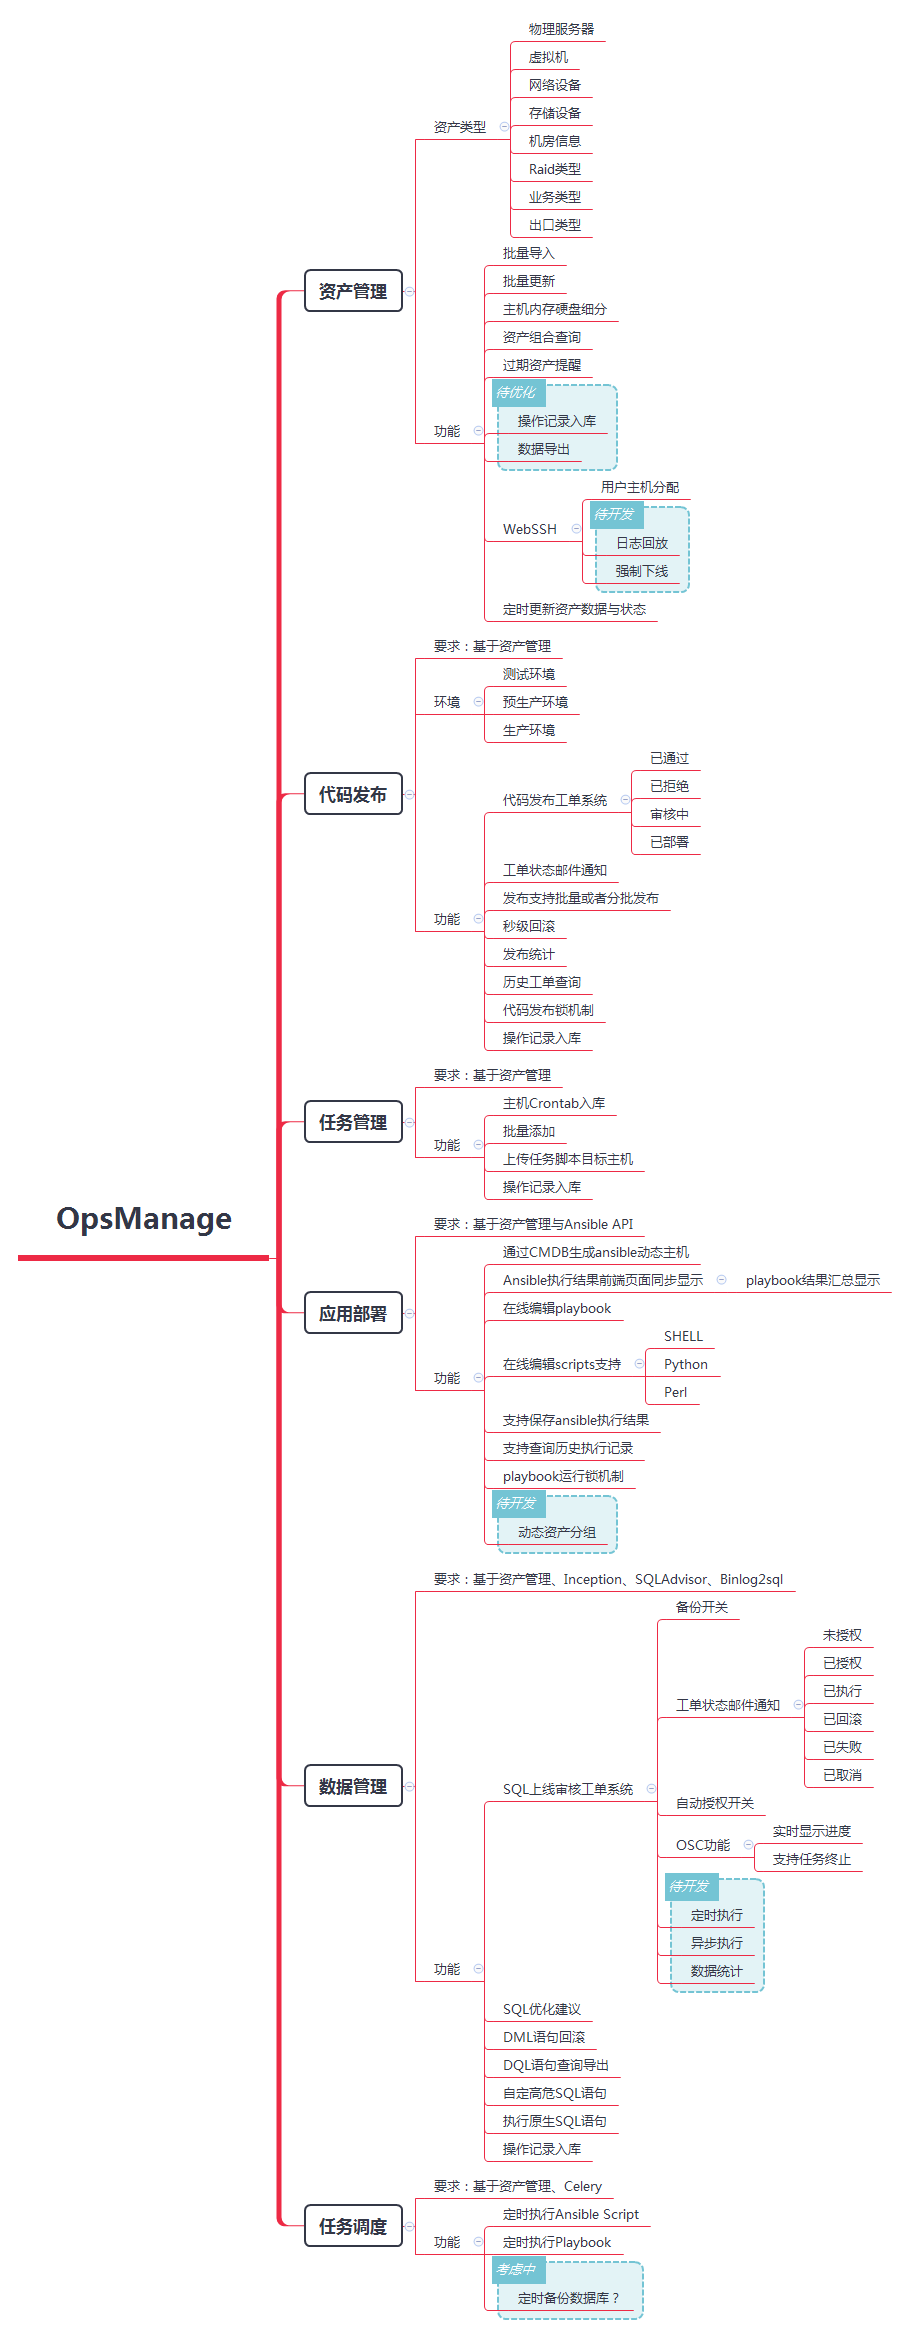
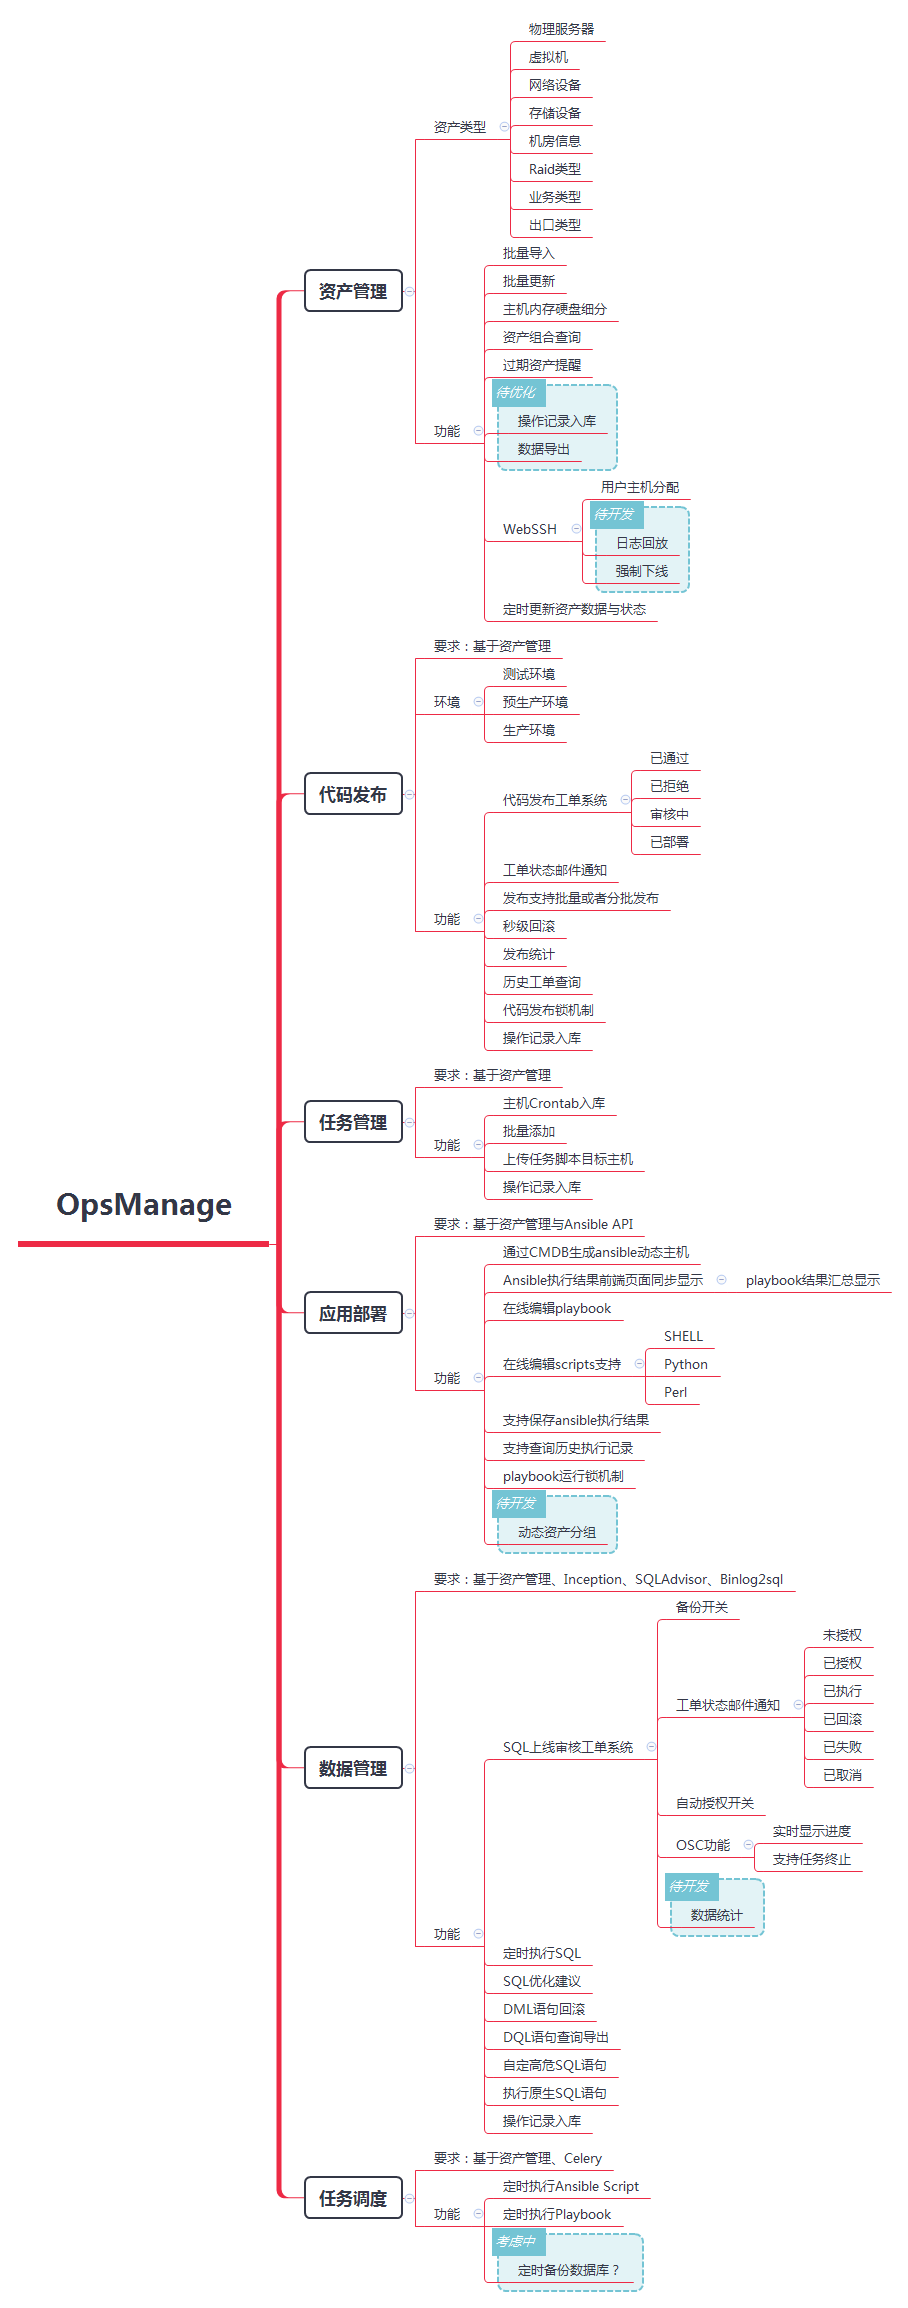
增加定时执行SQL

diff --git a/OpsManage/templates/task/task_model.html b/OpsManage/templates/task/task_model.html
@@ -27,7 +27,7 @@
 							</button>
 						</div>
 						<div>
-							<table class="table table-hover">
+							<table width="100%" class="table table-striped table-bordered table-hover dataTable no-footer" id="crontabList">
 								<thead>
 									<tr>
 										<th class="center">序号</th>
@@ -87,7 +87,7 @@
 							</button>
 						</div>
 						<div>
-							<table class="table table-hover">
+							<table width="100%" class="table table-striped table-bordered table-hover dataTable no-footer" id="intervalList">
 								<thead>
 									<tr>
 										<th class="center">序号</th>
@@ -334,9 +334,9 @@
 										<label class="col-sm-3 control-label no-padding-right" for="form-field-4"><strong>过期时间</strong></label>							
 										<div class="col-sm-5">
 											{% if ds.expires %}
-												<input class="form-control" type="text"   value="{{ds.expires}}" placeholder="2017-01-10 00:00:01" name="expires" />		
+												<input class="form-control form_datetime" data-date-format="yyyy-mm-dd hh:ii" type="text" type="text"   value="{{ds.expires|date:"Y/m/d H:i:s  "}}" placeholder="2017-01-10 00:00:01" name="expires" />		
 											{% else %}
-												<input class="form-control" type="text"   value="" placeholder="2017-01-10 00:00:01" name="expires" />
+												<input class="form-control form_datetime" data-date-format="yyyy-mm-dd hh:ii" type="text" type="text"   value="" placeholder="2017-01-10 00:00:01" name="expires" />
 											{% endif %}																			
 										</div>																				
 										
@@ -477,7 +477,7 @@
 						
 
 									<div class="col-sm-5">
-										<input class="form-control" type="text"   value="" placeholder="2017-01-10 00:00:01" name="expires" />																				
+										<input  class="form-control form_datetime" data-date-format="yyyy-mm-dd hh:ii" type="text"   value="" placeholder="2017-01-10 00:00:01" name="expires" />																				
 									</div>																				
 									
 							</div>	
@@ -651,9 +651,16 @@
 
 
 <script type="text/javascript">
+	$(".form_datetime").datetimepicker({format: 'yyyy-mm-dd hh:ii:ss'});
 	$(document).ready(function() {
 	    $('#taskTableList').DataTable();
 	} );  
+	$(document).ready(function() {
+	    $('#crontabList').DataTable();
+	} ); 
+	$(document).ready(function() {
+	    $('#intervalList').DataTable();
+	} ); 	
     $(function () { 
     	$("[data-toggle='popover']").popover();
     });	

diff --git a/OpsManage/tasks/sched.py b/OpsManage/tasks/sched.py
@@ -1,8 +1,9 @@
 #!/usr/bin/env python  
 # _#_ coding:utf-8 _*_ 
+import MySQLdb
 from celery import task
 from OpsManage.utils import base
-from OpsManage.models import Assets,Email_Config,Server_Assets
+from OpsManage.models import Assets,Email_Config,Server_Assets,DataBase_Server_Config
 from django.contrib.auth.models import User
 from OpsManage.utils.ansible_api_v2 import ANSRunner
 
@@ -89,3 +90,27 @@ def updateAssets():
                     sList.append(server_assets.ip)
                 except Exception, ex:
                     print ex 
+                    
+                    
+@task 
+def orderSql(**kw):
+    if kw.has_key('sql') and kw.has_key('dbId'):
+        try:
+            db = DataBase_Server_Config.objects.get(id=kw.get('dbId'))
+        except Exception, ex:
+            return ex
+        try:
+            conn = MySQLdb.connect(host=db.db_host,user=db.db_user,passwd=db.db_passwd,db=db.db_name,port=int(db.db_port))
+            cur = conn.cursor()
+            ret = cur.execute(kw.get('sql'))
+            conn.commit()
+            cur.close()
+            conn.close()            
+            return {"status":'success','data':ret}
+        except MySQLdb.Error,e:
+            conn.rollback()
+            cur.close()
+            conn.close() 
+            return {"status":'error',"errinfo":"Mysql Error %d: %s" % (e.args[0], e.args[1])}      
+    else:
+        return "参数不对"    

diff --git a/OpsManage/views/task.py b/OpsManage/views/task.py
@@ -112,7 +112,7 @@ def task_view(request):
             workList = WorkerState.objects.all()
             regTaskList = []
             for task in  list(keys(cTasks)):
-                if task.startswith('OpsManage.tasks.ansible') or task.startswith('OpsManage.tasks.assets.sched'):
+                if task.startswith('OpsManage.tasks.ansible') or task.startswith('OpsManage.tasks.sched'):
                     regTaskList.append(task)              
         except Exception, ex:
             print ex

diff --git a/OpsManage/settings.py b/OpsManage/settings.py
@@ -177,11 +177,11 @@ LANGUAGE_CODE = 'en-us'
 
 TIME_ZONE = 'Asia/Shanghai'
 
-USE_I18N = True
+# USE_I18N = True
+# 
+# USE_L10N = True
 
-USE_L10N = True
-
-USE_TZ = False
+# USE_TZ = False
 
 
 # Static files (CSS, JavaScript, Images)
